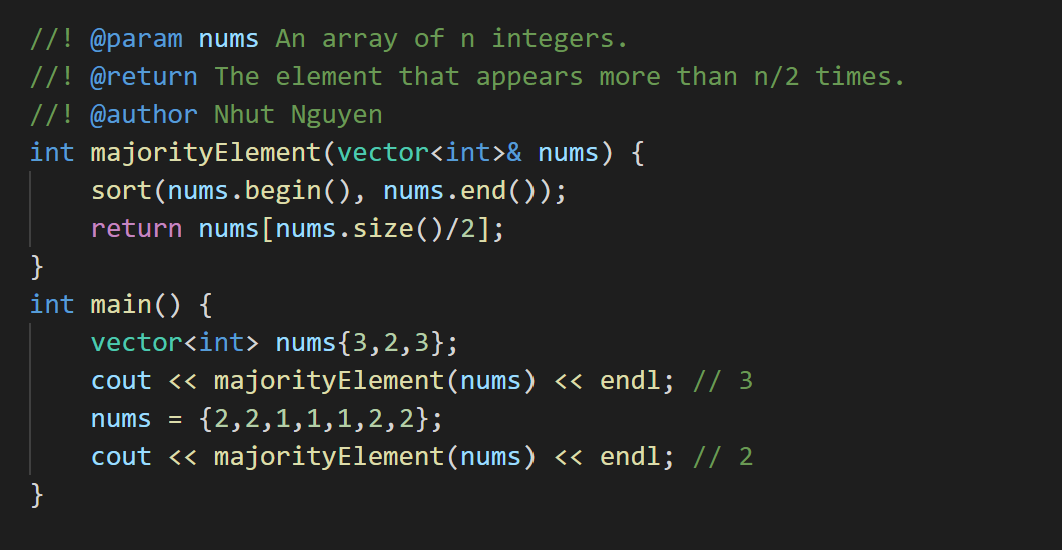
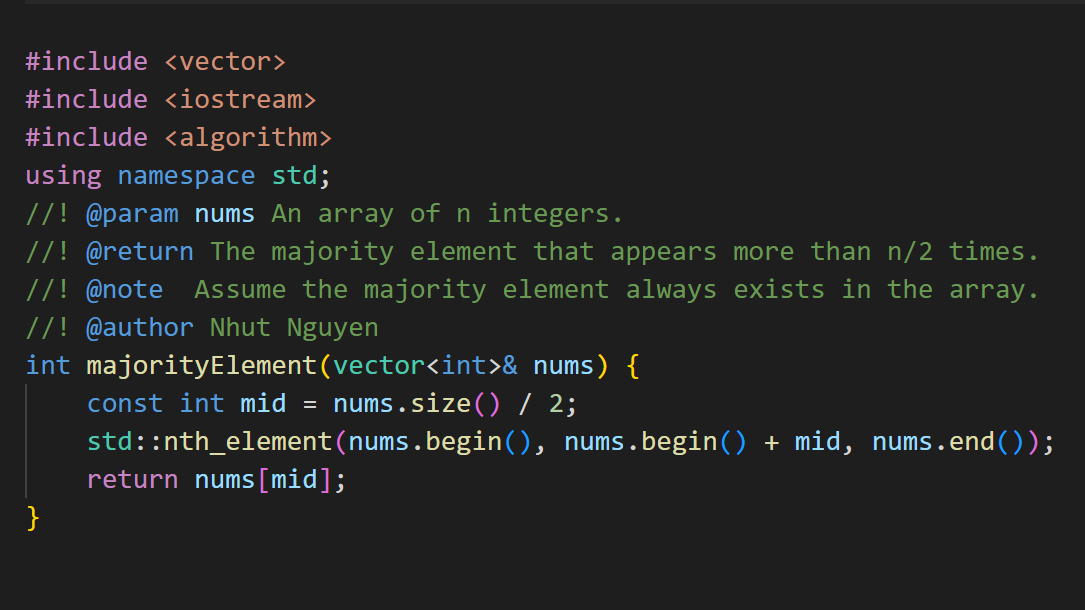
std::nth_element

diff --git a/169. Majority Element/169_Majority_Element.cpp b/169. Majority Element/169_Majority_Element.cpp
@@ -2,13 +2,14 @@
 #include <iostream>
 #include <algorithm>
 using namespace std;
-
 //! @param nums An array of n integers.
-//! @return The element that appears more than n/2 times.
+//! @return The majority element that appears more than n/2 times.
+//! @note  Assume the majority element always exists in the array.
 //! @author Nhut Nguyen
 int majorityElement(vector<int>& nums) {
-    sort(nums.begin(), nums.end());
-    return nums[nums.size()/2];
+    const int mid = nums.size() / 2;    
+    std::nth_element(nums.begin(), nums.begin() + mid, nums.end());
+    return nums[mid];
 }
 int main() {
     vector<int> nums{3,2,3};

diff --git a/169. Majority Element/README.md b/169. Majority Element/README.md
@@ -90,10 +90,52 @@ Output:
 2
 ```
 
+### Solution 3: Partial sort
+
+Since you are interested in only the middle element after sorting, the partial sorting algorithm [`std::nth_element`](https://en.cppreference.com/w/cpp/algorithm/nth_element) can be used in this case to reduce the cost of the full sorting.
+
+#### Code
+```cpp
+#include <vector>
+#include <iostream>
+#include <algorithm>
+using namespace std;
+int majorityElement(vector<int>& nums) {
+    const int mid = nums.size() / 2;    
+    std::nth_element(nums.begin(), nums.begin() + mid, nums.end());
+    return nums[mid];
+}
+int main() {
+    vector<int> nums{3,2,3};
+    cout << majorityElement(nums) << endl; // 3
+    nums = {2,2,1,1,1,2,2};
+    cout << majorityElement(nums) << endl; // 2
+}
+```
+```plain
+Output:
+3
+2
+```
+
 #### Complexity
-* Runtime: `O(nlogn)`, where `n = nums.length`.
+* Runtime: `O(n)`, where `n = nums.length`.
 * Extra space: `O(1)`.
+
+
+### Modern C++ notes
+
+In the code of Solution 3, the partial sorting algorithm `std::nth_element` will make sure for all indices `i` and `j` that satisfy `0 <= i <= mid <= j < nums.length`,
+
+```plain
+nums[i] <= nums[mid] <= nums[j].
+```
+
+In other words, `nums[mid]` divides the array `nums` into two groups: all elements that are less than or equal to `nums[mid]` and the ones that are greater than or equal to `nums[mid]`. 
+
+Those two groups are unsorted. That is why the algorithm is called *partial* sorting. 
 
 ### References
 * [https://leetcode.com/problems/majority-element/](https://leetcode.com/problems/majority-element/)
 * [https://www.leetsolve.com/169-majority-element](https://www.leetsolve.com/169-majority-element)
+* [https://en.cppreference.com/w/cpp/algorithm/nth_element](https://en.cppreference.com/w/cpp/algorithm/nth_element)
